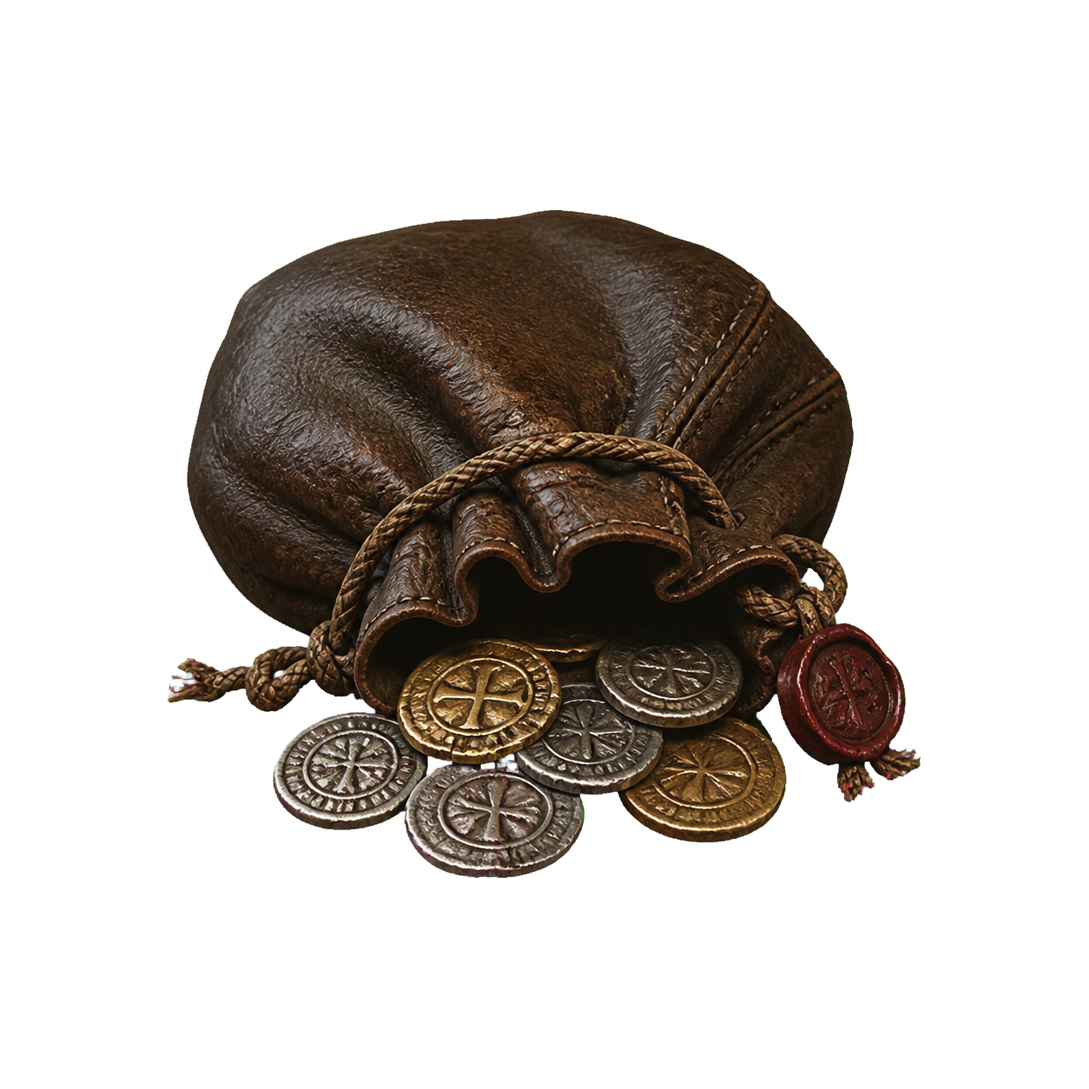
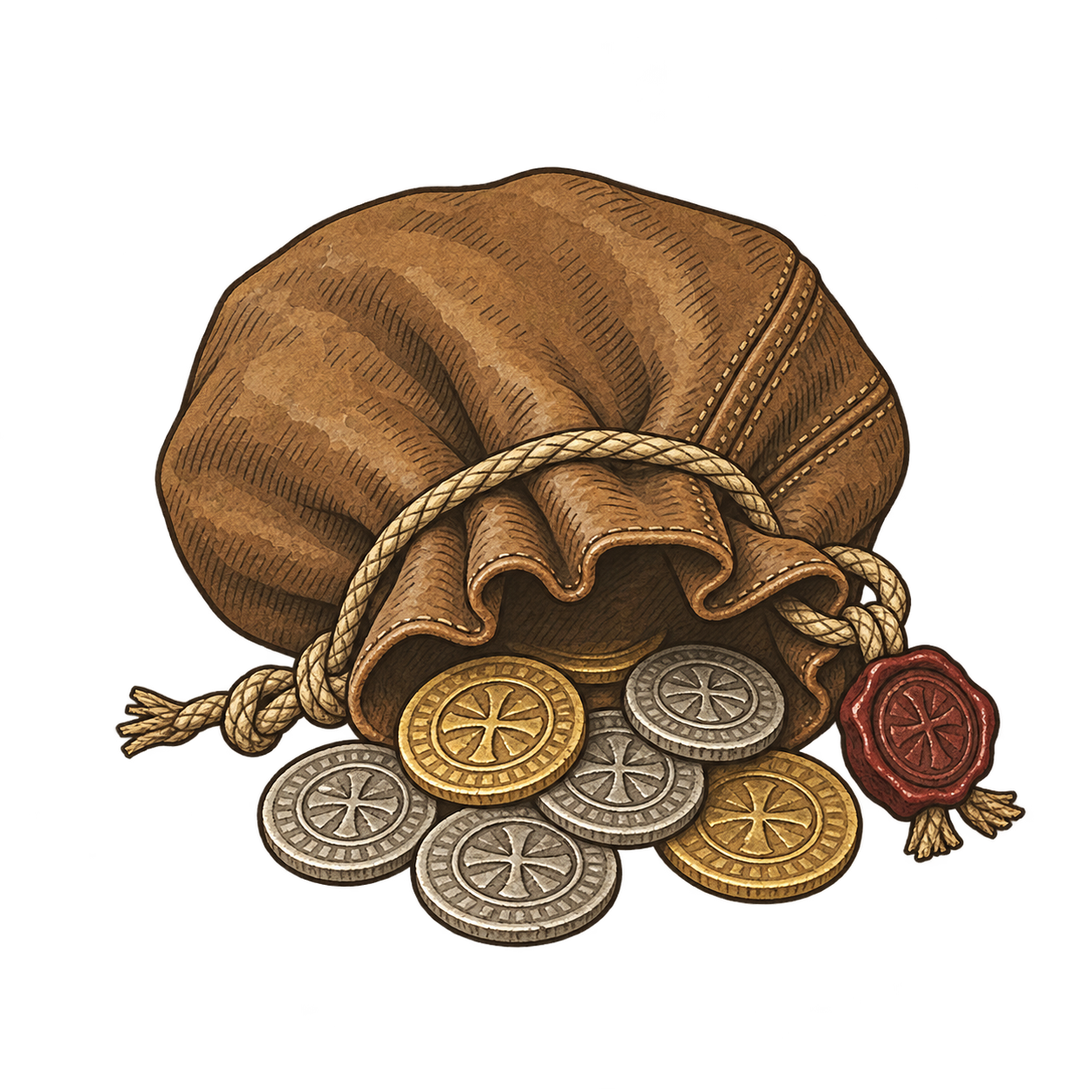
Refresh shared pickup artwork and correct return-summary city counts

diff --git a/docs/visual-qa/offline-earnings/art-review.html b/docs/visual-qa/offline-earnings/art-review.html
@@ -1,13 +1,13 @@
 <!doctype html>
 <html lang="en"><head><meta charset="utf-8"><meta name="viewport" content="width=device-width,initial-scale=1"><title>Crown Lands · Pickup art review</title><link rel="icon" href="../../../assets/icons/crownlands-favicon-32.png"><link rel="stylesheet" href="art-review.css"></head><body>
-<header><div><p class="eyebrow">CROWN LANDS · SHARED ARTWORK</p><h1>Gold &amp; troops</h1><p class="intro">The same familiar objects, illustrated to belong in your kingdom.</p></div><span class="badge">Draft · For approval</span></header>
+<header><div><p class="eyebrow">CROWN LANDS · SHARED ARTWORK</p><h1>Gold &amp; troops</h1><p class="intro">The same familiar objects, illustrated to belong in your kingdom.</p></div><span class="badge">Art approved · Integrated locally</span></header>
 <nav aria-label="Review navigation"><a href="index.html?viewport=landscape&amp;sample=lost">See in Welcome Back · mobile landscape <span aria-hidden="true">›</span></a><a href="index.html?viewport=desktop&amp;sample=standard">See in Welcome Back · desktop <span aria-hidden="true">›</span></a></nav>
 <main>
 <div class="pair">
-<section class="art-card" aria-labelledby="goldTitle"><div class="card-heading"><span>I</span><h2 id="goldTitle">Gold pickup</h2><p>Pouch · coins · wax seal</p></div><div class="comparison"><figure><figcaption>Current</figcaption><div class="art-stage"><img src="../../../assets/gold-pickup.png" alt="Current gold pickup with realistic dark leather and shiny coins"></div></figure><figure class="proposed"><figcaption>Proposed · illustrated atlas</figcaption><div class="art-stage"><img src="art/gold-pickup-atlas-v1.png" alt="Proposed gold pickup with drawn sepia lines, ochre leather, muted gold and a red seal"></div></figure></div><p class="art-description">Tawny leather, antique gold, warm gray silver, and a muted red seal. Ink outlines replace photographic shine.</p></section>
-<section class="art-card" aria-labelledby="troopTitle"><div class="card-heading"><span>II</span><h2 id="troopTitle">Troop pickup</h2><p>Helmet · banner · spears · orders</p></div><div class="comparison"><figure><figcaption>Current</figcaption><div class="art-stage"><img src="../../../assets/troop-pickup.png" alt="Current troop pickup with dark realistic metal and burgundy cloth"></div></figure><figure class="proposed"><figcaption>Proposed · illustrated atlas</figcaption><div class="art-stage"><img src="art/troop-pickup-atlas-v1.png" alt="Proposed troop pickup with warm gray iron, weathered burgundy, parchment and hand-drawn shading"></div></figure></div><p class="art-description">Warm gray iron, weathered burgundy, and parchment orders. The helmet, banner, spears, and scroll remain together.</p></section>
+<section class="art-card" aria-labelledby="goldTitle"><div class="card-heading"><span>I</span><h2 id="goldTitle">Gold pickup</h2><p>Pouch · coins · wax seal</p></div><div class="comparison"><figure><figcaption>Before</figcaption><div class="art-stage"><img src="art/gold-pickup-before.png" alt="Current gold pickup with realistic dark leather and shiny coins"></div></figure><figure class="proposed"><figcaption>Approved · illustrated atlas</figcaption><div class="art-stage"><img src="art/gold-pickup-atlas-v1.png" alt="Proposed gold pickup with drawn sepia lines, ochre leather, muted gold and a red seal"></div></figure></div><p class="art-description">Tawny leather, antique gold, warm gray silver, and a muted red seal. Ink outlines replace photographic shine.</p></section>
+<section class="art-card" aria-labelledby="troopTitle"><div class="card-heading"><span>II</span><h2 id="troopTitle">Troop pickup</h2><p>Helmet · banner · spears · orders</p></div><div class="comparison"><figure><figcaption>Before</figcaption><div class="art-stage"><img src="art/troop-pickup-before.png" alt="Current troop pickup with dark realistic metal and burgundy cloth"></div></figure><figure class="proposed"><figcaption>Approved · illustrated atlas</figcaption><div class="art-stage"><img src="art/troop-pickup-atlas-v1.png" alt="Proposed troop pickup with warm gray iron, weathered burgundy, parchment and hand-drawn shading"></div></figure></div><p class="art-description">Warm gray iron, weathered burgundy, and parchment orders. The helmet, banner, spears, and scroll remain together.</p></section>
 </div>
-<section class="context-card"><div class="context-heading"><div><p class="eyebrow">AT GAME SCALE</p><h2>Clear on parchment. At home on the map.</h2></div><p>48px · 64px · 96px</p></div><div class="contexts"><div class="parchment-preview"><span class="surface-label">PARCHMENT PANELS</span><div class="scale-row"><div><img src="art/gold-pickup-atlas-v1.png" width="48" height="48" alt="Gold at 48 pixels"><img src="art/troop-pickup-atlas-v1.png" width="48" height="48" alt="Troops at 48 pixels"></div><div><img src="art/gold-pickup-atlas-v1.png" width="64" height="64" alt="Gold at 64 pixels"><img src="art/troop-pickup-atlas-v1.png" width="64" height="64" alt="Troops at 64 pixels"></div><div><img src="art/gold-pickup-atlas-v1.png" width="96" height="96" alt="Gold at 96 pixels"><img src="art/troop-pickup-atlas-v1.png" width="96" height="96" alt="Troops at 96 pixels"></div></div></div><div class="map-preview"><span class="surface-label">MAP PICKUPS</span><div class="map-icons"><img src="art/gold-pickup-atlas-v1.png" width="96" height="96" alt="Proposed gold on the map"><img src="art/troop-pickup-atlas-v1.png" width="96" height="96" alt="Proposed troops on the map"></div></div></div></section>
+<section class="context-card"><div class="context-heading"><div><p class="eyebrow">AT GAME SCALE</p><h2>Clear on parchment. At home on the map.</h2></div><p>48px · 64px · 96px</p></div><div class="contexts"><div class="parchment-preview"><span class="surface-label">PARCHMENT PANELS</span><div class="scale-row"><div><img src="../../../assets/optimized/pickup-gold-192x192-0f5238966f7a.webp" width="48" height="48" alt="Gold at 48 pixels"><img src="../../../assets/optimized/pickup-troops-192x192-7613afbbad92.webp" width="48" height="48" alt="Troops at 48 pixels"></div><div><img src="../../../assets/optimized/pickup-gold-192x192-0f5238966f7a.webp" width="64" height="64" alt="Gold at 64 pixels"><img src="../../../assets/optimized/pickup-troops-192x192-7613afbbad92.webp" width="64" height="64" alt="Troops at 64 pixels"></div><div><img src="../../../assets/optimized/pickup-gold-192x192-0f5238966f7a.webp" width="96" height="96" alt="Gold at 96 pixels"><img src="../../../assets/optimized/pickup-troops-192x192-7613afbbad92.webp" width="96" height="96" alt="Troops at 96 pixels"></div></div></div><div class="map-preview"><span class="surface-label">MAP PICKUPS</span><div class="map-icons"><img src="../../../assets/optimized/pickup-gold-192x192-0f5238966f7a.webp" width="96" height="96" alt="Proposed gold on the map"><img src="../../../assets/optimized/pickup-troops-192x192-7613afbbad92.webp" width="96" height="96" alt="Proposed troops on the map"></div></div></div></section>
 </main>
-<footer><strong>Approval applies to both shared images.</strong><p>After approval, these versions will replace their shared artwork wherever used: map pickups, reward animations, level-up rewards, Daily Login, shop boosts, the rewards guide, and Welcome Back. The game still uses the current versions until integration and deployment.</p><p class="quiet">Built-in image generation · transparent PNG drafts · no gameplay changes</p></footer>
+<footer><strong>Both shared images approved.</strong><p>The approved pair is now wired into the local shared artwork references: map pickups, reward animations, level-up rewards, Daily Login, shop boosts, the rewards guide, and Welcome Back. The change is not deployed yet.</p><p class="quiet">Built-in image generation · transparent PNG drafts · no gameplay changes</p></footer>
 </body></html>

diff --git a/daily-rewards-guide.html b/daily-rewards-guide.html
@@ -6,6 +6,6 @@
 <section class="content-section" id="queue"><h2>Two earned rewards can wait for collection</h2><p>Missing days pauses progress. Up to two earned rewards wait for collection and carry across seasons. Collect them in order after establishing your main city. Resource amounts use your current base production when collected.</p><div class="callout">One attendance credit is available per UTC date. A full queue can defer today's credit until you collect a reward. Finishing a cycle does not grant an extra login day.</div></section>
 <section class="content-section" id="missions"><h2>Daily Missions are generated from a server snapshot</h2><p>Open Daily Rewards and choose the Quests tab to see three missions. They reset at 00:00 UTC. The server selects three distinct mission families and scales their targets and rewards from a snapshot of the kingdom's production, cities, troops, and available activities.</p><p>Those targets stay locked for the day. Gaining a city or producing more troops does not move the goal after it has been created. Progress comes from validated gameplay events, and rewards must be claimed after completion.</p><table class="data-table"><thead><tr><th>Mission behavior</th><th>Rule</th><th>Planning effect</th></tr></thead><tbody><tr><td>Daily set</td><td>Three distinct mission families</td><td>Expect variety rather than three versions of one action.</td></tr><tr><td>Scaling</td><td>Locked from the day's server snapshot</td><td>The goal will not chase later kingdom growth.</td></tr><tr><td>PvP and Stronghold attacks</td><td>Must commit at least 5% of snapshotted deployable troops</td><td>Token attacks do not count as meaningful action.</td></tr><tr><td>Camp captures</td><td>Count after server-confirmed successful capture</td><td>The PvP troop threshold does not apply to camp success.</td></tr><tr><td>Claiming</td><td>Server validates and grants once</td><td>Repeated client actions cannot duplicate a reward.</td></tr></tbody></table></section>
 <section class="content-section" id="reroll"><h2>Use the one reroll before investing in the wrong mission</h2><p>Each ruler receives one reroll for an unfinished mission per UTC day. The replacement discards the old mission's progress. It does not transform partial progress into the new goal.</p><p>Use the reroll when a mission conflicts with the day's real position: an objective is unreachable, a combat target would be wasteful, or the kingdom needs a defensive session instead. Reroll early, before spending troops or gold merely to protect progress that will disappear.</p><p>A completed mission cannot be rerolled to farm a second reward. The server locks the claim and replacement rules around the same daily state.</p></section>
-<section class="content-section" id="pickups"><h2>Active-map pickups alternate between gold and troops</h2><div class="comparison-grid"><div class="comparison-panel"><img src="/assets/optimized/pickup-gold-192x192-a1de679b797d.webp" width="82" height="82" alt="" /><h3>Gold pickup</h3><p>Credits thirty minutes of stored gold production.</p></div><div class="comparison-panel"><img src="/assets/optimized/pickup-troops-192x192-ed370610c5b6.webp" width="82" height="82" alt="" /><h3>Troop pickup</h3><p>Credits thirty minutes of stored troop production.</p></div></div><p>The first pickup appears after two minutes. After a successful collection, the next appears two minutes later and alternates between the two reward types. Pickups favor safe positions toward the center of the current map so they remain visible on larger islands. The daily limit is thirty of each type, sixty total. Cross-region collection credits the correct Main City and sends the reward animation toward its correct destination.</p><p>Pickups are a supplement to city production, not a reason to remain online without a plan. Use them while reviewing holdings, reports, and marches instead of treating collection as the primary game loop.</p></section>
+<section class="content-section" id="pickups"><h2>Active-map pickups alternate between gold and troops</h2><div class="comparison-grid"><div class="comparison-panel"><img src="/assets/optimized/pickup-gold-192x192-0f5238966f7a.webp" width="82" height="82" alt="" /><h3>Gold pickup</h3><p>Credits thirty minutes of stored gold production.</p></div><div class="comparison-panel"><img src="/assets/optimized/pickup-troops-192x192-7613afbbad92.webp" width="82" height="82" alt="" /><h3>Troop pickup</h3><p>Credits thirty minutes of stored troop production.</p></div></div><p>The first pickup appears after two minutes. After a successful collection, the next appears two minutes later and alternates between the two reward types. Pickups favor safe positions toward the center of the current map so they remain visible on larger islands. The daily limit is thirty of each type, sixty total. Cross-region collection credits the correct Main City and sends the reward animation toward its correct destination.</p><p>Pickups are a supplement to city production, not a reason to remain online without a plan. Use them while reviewing holdings, reports, and marches instead of treating collection as the primary game loop.</p></section>
 <section class="content-section" id="routine"><h2>A fifteen-minute daily routine</h2><ol><li>Confirm the UTC date and inspect the login reward queue.</li><li>Open the Quests tab before committing troops or spending gold.</li><li>Reroll an unsuitable unfinished mission immediately.</li><li>Review incoming armies and vulnerable walls before pursuing progress.</li><li>Choose actions that satisfy a mission and improve the kingdom at the same time.</li><li>Claim completed mission rewards and confirm the destination of production rewards.</li><li>Check seasonal achievements for progress that came naturally from the session.</li></ol><p>The goal is alignment. A useful mission encourages an action the realm already needs; a poor plan spends resources for a checkbox while ignoring the map.</p><div class="site-actions"><a class="site-button" href="/play/">Open Daily Rewards</a><a class="site-button secondary" href="/how-to-play.html">Review the full game loop</a><a class="site-button secondary" href="/updates.html">Read recent progression updates</a></div></section>
 </article></div></main><footer class="site-footer"><div class="site-footer-inner"><span>&copy; 2026 Crownlands. Guide by the Crownlands Development Team.</span><nav aria-label="Footer"><a href="/">Home</a><a href="/guides.html">All guides</a><a href="/updates.html">Updates</a><a href="/game-rules.html">Rules</a><a href="/privacy.html">Privacy</a></nav></div></footer><script src="/public-site.js?v=20260812-public-site" defer></script></body></html>

diff --git a/docs/visual-qa/pass-3f/index.html b/docs/visual-qa/pass-3f/index.html
@@ -130,8 +130,8 @@
     <article class="context" data-view="map">
       <h3>Map Pickups and Protected City</h3>
       <div class="context-stage map-scene">
-        <button class="harvest-bonus-node map-pickup" style="--left:28%;--top:38%"><span><img class="harvest-bonus-icon" src="../../../assets/optimized/pickup-gold-192x192-a1de679b797d.webp" alt="Gold pickup" /></span></button>
-        <button class="harvest-bonus-node harvest-bonus-troops map-pickup" style="--left:45%;--top:66%"><span><img class="harvest-bonus-icon" src="../../../assets/optimized/pickup-troops-192x192-ed370610c5b6.webp" alt="Troop pickup" /></span></button>
+        <button class="harvest-bonus-node map-pickup" style="--left:28%;--top:38%"><span><img class="harvest-bonus-icon" src="../../../assets/optimized/pickup-gold-192x192-0f5238966f7a.webp" alt="Gold pickup" /></span></button>
+        <button class="harvest-bonus-node harvest-bonus-troops map-pickup" style="--left:45%;--top:66%"><span><img class="harvest-bonus-icon" src="../../../assets/optimized/pickup-troops-192x192-7613afbbad92.webp" alt="Troop pickup" /></span></button>
         <div class="protected-city"><span class="protected-city-label">Redhaven | Protected</span><span class="city-shield-field"><img src="../../../assets/optimized/status-peace-shield-field-192x192-ca4a297c750b.webp" alt="" /></span><span class="city-castle"><img src="../../../assets/optimized/castle-city-256x256-96961dc8d50b.webp" alt="" /></span></div>
       </div>
     </article>
@@ -165,13 +165,13 @@
     ["Veil of Silence", "veil-of-silence-icon.webp", "item-veil-of-silence-160x160-ea2992af0cd1.webp"],
     ["Swift March Order", "swift-march-order-icon.webp", "item-swift-march-160x160-e857cc4d8977.webp"],
     ["Recall Horn", "recall-horn-icon.webp", "item-recall-horn-160x160-b261d10e9c8b.webp"],
-    ["Gold Pickup", "gold-pickup.png", "pickup-gold-192x192-a1de679b797d.webp"],
-    ["Troop Pickup", "troop-pickup.png", "pickup-troops-192x192-ed370610c5b6.webp"],
+    ["Gold Pickup", "gold-pickup.png", "pickup-gold-192x192-0f5238966f7a.webp"],
+    ["Troop Pickup", "troop-pickup.png", "pickup-troops-192x192-7613afbbad92.webp"],
   ];
   comparisonGrid.innerHTML = comparisons.map(([label, oldArt, newArt]) => `<article class="qa-card"><h3>${label}</h3><div class="old-new"><figure><img src="old-assets/${oldArt}" alt="Old ${label}" /><figcaption>Old</figcaption></figure><figure><img src="${root}assets/optimized/${newArt}" alt="New ${label}" /><figcaption>Pass 3F</figcaption></figure></div></article>`).join("");
   shopItems.innerHTML = items.map(([label, art, price, id]) => `<article class="shop-item" data-shop-item="${id}"><div class="shop-item-image-placeholder has-image"><img class="shop-item-image" src="${root}assets/optimized/${art}" alt="" /></div><div class="shop-item-copy"><strong>${label}</strong><span>${price}</span><small>Grounded Crownlands supply item</small></div><button class="shop-buy-btn" type="button">Buy</button></article>`).join("");
-  inventorySlots.innerHTML = [...items, ["Gold Pickup", "pickup-gold-192x192-a1de679b797d.webp", "x1", "gold"]].map(([label, art], index) => `<button class="inventory-slot filled${index === 1 ? " selected" : ""}" type="button"><span class="inventory-slot-icon has-image"><img class="inventory-slot-image" src="${root}assets/optimized/${art}" alt="" /></span><span class="inventory-slot-name">${label}</span><span class="inventory-slot-count">x${index + 1}</span></button>`).join("");
-  const daily = [items[1], items[2], items[3], items[4], items[5], items[6], ["Gold", "pickup-gold-192x192-a1de679b797d.webp"], ["Troops", "pickup-troops-192x192-ed370610c5b6.webp"], items[0], items[3]];
+  inventorySlots.innerHTML = [...items, ["Gold Pickup", "pickup-gold-192x192-0f5238966f7a.webp", "x1", "gold"]].map(([label, art], index) => `<button class="inventory-slot filled${index === 1 ? " selected" : ""}" type="button"><span class="inventory-slot-icon has-image"><img class="inventory-slot-image" src="${root}assets/optimized/${art}" alt="" /></span><span class="inventory-slot-name">${label}</span><span class="inventory-slot-count">x${index + 1}</span></button>`).join("");
+  const daily = [items[1], items[2], items[3], items[4], items[5], items[6], ["Gold", "pickup-gold-192x192-0f5238966f7a.webp"], ["Troops", "pickup-troops-192x192-7613afbbad92.webp"], items[0], items[3]];
   dailyGrid.innerHTML = daily.map(([label, art], index) => `<article class="daily-reward-card ${index < 3 ? "claimed" : index === 3 ? "available" : "locked"}"><img class="daily-reward-card-icon" src="${root}assets/optimized/${art}" alt="" /><strong class="daily-reward-card-amount">${index % 3 === 0 ? "1h" : "x1"}</strong><span class="sr-only">${label}</span></article>`).join("");
   const requested = new URLSearchParams(location.search).get("view");
   if (requested) {

diff --git a/game.js b/game.js
@@ -184,14 +184,14 @@ const REWARDED_AD_ITEMS = Object.freeze([
     label: "Gold .5h Boost",
     description: "Receive 30 minutes of Gold production.",
     rewardLabel: "gold",
-    icon: "assets/optimized/pickup-gold-192x192-a1de679b797d.webp",
+    icon: "assets/optimized/pickup-gold-192x192-0f5238966f7a.webp",
   },
   {
     id: "troops",
     label: "Troop .5h Boost",
     description: "Receive 30 minutes of Troop production.",
     rewardLabel: "troops",
-    icon: "assets/optimized/pickup-troops-192x192-ed370610c5b6.webp",
+    icon: "assets/optimized/pickup-troops-192x192-7613afbbad92.webp",
   },
 ]);
 const INNER_CASTLE_HUB_ART_SRC = "assets/optimized/inner-castle-hub-1280x960-5bb08b2e7f5c.webp";
@@ -641,8 +641,8 @@ const MAP_DETAIL_CLOSE_EXIT_ZOOM = 0.76;
 const MARCH_ENDPOINT_INTERACTION_MIN_CLEARANCE = 72;
 const MARCH_ENDPOINT_INTERACTION_SIZE_RATIO = 0.62;
 const ISLAND_MAP_PADDING = 560;
-const TROOP_PICKUP_ICON_SRC = "assets/optimized/pickup-troops-192x192-ed370610c5b6.webp";
-const GOLD_PICKUP_ICON_SRC = "assets/optimized/pickup-gold-192x192-a1de679b797d.webp";
+const TROOP_PICKUP_ICON_SRC = "assets/optimized/pickup-troops-192x192-7613afbbad92.webp";
+const GOLD_PICKUP_ICON_SRC = "assets/optimized/pickup-gold-192x192-0f5238966f7a.webp";
 const MAP_SWITCH_ARROW_ICON_SRC = "assets/optimized/hud-map-switch-arrow-192x212-a1e29fa42628.webp";
 const DEFAULT_PORTAL_VISUAL_SIZE = 92;
 const MIN_PORTAL_VISUAL_SIZE = 60;

diff --git a/docs/visual-qa/offline-earnings/preview.html b/docs/visual-qa/offline-earnings/preview.html
@@ -8,8 +8,8 @@
 <div class="welcome-body">
 <section class="earnings" aria-labelledby="earningsTitle"><div class="section-heading"><span class="folio" aria-hidden="true">I</span><h2 id="earningsTitle">While you were away</h2></div>
 <div class="reward-list">
-<article class="reward-row gold"><img src="docs/visual-qa/offline-earnings/art/gold-pickup-atlas-v1.png" alt=""><div><h3>Gold collected</h3><strong id="gold" class="amount">+125,480</strong><p>Added to your treasury</p></div></article>
-<article class="reward-row troops"><img src="docs/visual-qa/offline-earnings/art/troop-pickup-atlas-v1.png" alt=""><div><h3>Troops produced</h3><strong id="troops" class="amount">+32,620</strong><p>Remaining in cities you still own</p></div></article>
+<article class="reward-row gold"><img src="assets/optimized/pickup-gold-192x192-0f5238966f7a.webp" alt=""><div><h3>Gold collected</h3><strong id="gold" class="amount">+125,480</strong><p>Added to your treasury</p></div></article>
+<article class="reward-row troops"><img src="assets/optimized/pickup-troops-192x192-7613afbbad92.webp" alt=""><div><h3>Troops produced</h3><strong id="troops" class="amount">+32,620</strong><p>Remaining in cities you still own</p></div></article>
 </div>
 <p class="receipt-note"><span aria-hidden="true">✦</span> A record of your kingdom's production.</p>
 </section>

diff --git a/tools/validate-pass-3f-items.js b/tools/validate-pass-3f-items.js
@@ -124,6 +124,7 @@ const retiredHashes = [
   "0f7ac5409316", "dcb8dddc35ea", "48ecb3c2150b", "eaa5b941fe82", "5d50be41ce93",
   "f1cb9c8471ca", "eb20879b085e", "13064480d6c7", "866b66c49b83", "5b5b95051830",
   "5fd9cc116a40", "d7e2adb1b120", "1e09f4efdbff", "9392b160d654",
+  "a1de679b797d", "ed370610c5b6",
 ];
 for (const hash of retiredHashes) {
   assert(!shippedReferences.includes(hash), `Retired Pass 3F asset hash ${hash} is still referenced.`);

diff --git a/docs/visual-qa/offline-earnings/art-notes.md b/docs/visual-qa/offline-earnings/art-notes.md
@@ -1,6 +1,6 @@
 # Shared Gold and troop artwork · atlas v1
 
-Status: draft for user approval, refining Welcome Back on `codex/offline-earnings-draft`. The user requested the same two images with changed style and colors, then replacement everywhere those images appear once approved.
+Status: artwork approved and integrated locally on `codex/offline-earnings-draft`; merge and deployment are not authorized yet. The user requested the same two images with changed style and colors, then replacement everywhere those images appear once approved.
 
 ## Saved artwork
 
@@ -13,9 +13,9 @@ Both are 1254 × 1254 PNG files with real alpha. They retain the pouch/coins/cor
 
 Generated using the built-in image generation tool. No API/CLI fallback or external paid provider was used. The tool does not expose a selectable model version in this environment; no specific model version is asserted.
 
-The original files under `assets/` and their optimized runtime derivatives are unchanged. Only the Welcome Back draft points to the proposed versions.
+The approved PNGs now replace `assets/gold-pickup.png` and `assets/troop-pickup.png`. Only the two corresponding manifest entries and derivatives were rebuilt. The old images are retained as `art/gold-pickup-before.png` and `art/troop-pickup-before.png` for the comparison.
 
-## Shared reference audit and rollout after approval
+## Shared reference audit
 
 | Reference | Current consumers / required update |
 | --- | --- |
@@ -31,7 +31,7 @@ The original files under `assets/` and their optimized runtime derivatives are u
 
 After approval, use a single shared pair of optimized assets across runtime consumers, refresh the manifest and relevant cache/version references, and search the complete repository for stale old hashes. Preserve click areas, production values, timing, and reward logic. Check the actual map pickup and reward displays, including alpha after pickup. Existing generic vector currency/resource symbols are separate assets; this request replaces usages of these two raster images.
 
-The two generated masters are intentionally stored as versioned draft files until approval. No source image overwrite, main-branch update, PR, merge, or deployment occurred for this artwork revision.
+Runtime integration is complete for the shared image references listed above. The Welcome Back layout remains an isolated presentation draft and now previews the same optimized pair. The saved Hero Level-Up branch is outside this checkout and must reuse the current shared constants when integrated. No main-branch update, merge, or deployment occurred.
 
 ## Verification
 
@@ -39,8 +39,8 @@ The two generated masters are intentionally stored as versioned draft files unti
 - Before/after comparison loads all 12 images: original/proposed Gold and troops, three small-size pairs, and both map previews.
 - The proposed pair was inspected at 48px, 64px and 96px on parchment and 96px on the map. No opaque rectangle appears behind either image.
 - Welcome Back at 844 × 390 loads both proposed PNGs. Its earnings pane has equal client/scroll widths (434px); Collect remains 44px high and visible.
-- This revision only changes draft images, review pages, and documentation. Runtime behavior tests from the preceding Welcome Back commit remain applicable; no slow emulator/release suite is needed for art approval.
-- Before rollout, encode optimized WebP derivatives and recheck alpha and readability at actual runtime sizes. PNG masters are for review/editing, not the production delivery size.
+- Focused runtime checks passed for Pass 3F art, asset budgets, harvest pickup lifecycle, reward animations, and rewarded ads. Production build and artifact validation passed. The browser comparison uses the encoded runtime pair at 48, 64 and 96px on parchment and at 96px on the map.
+- Encoded and checked optimized WebP derivatives: Gold `pickup-gold-192x192-0f5238966f7a.webp` (11,572 bytes); troops `pickup-troops-192x192-7613afbbad92.webp` (12,780 bytes). Both are 192 × 192 RGBA with transparent corners. Production artifact bytes match the generated files exactly. PNG masters are not production delivery assets.
 
 ## Exact prompts
 

diff --git a/docs/CROWNLANDS_MASTER_DEVELOPMENT_SPECIFICATION.md b/docs/CROWNLANDS_MASTER_DEVELOPMENT_SPECIFICATION.md
@@ -1207,6 +1207,12 @@ The [Crownlands Art Bible](./CROWNLANDS_ART_BIBLE.md) is the detailed visual aut
 
 **Status:** Established direction, with the current migrated visual foundation `LIVE — ALL PUBLISHED CHANNELS` and continuing polish `IN DEVELOPMENT`.
 
+### Approved shared Gold and troop pickup artwork — September 17, 2026
+
+- Keep the existing coin pouch, coins, cord and wax seal, and the existing helmet, banner, spears and sealed orders. Restyle the pair with sepia ink outlines, painted shading, muted earthy colors and transparent backgrounds to match the illustrated maps.
+- Use the approved pair everywhere those shared raster images appear, including map pickups, reward feedback, Hero Level-Up, Daily Login, shop boosts and the rewards guide. Existing generic vector resource symbols remain separate assets.
+- Preserve pickup click areas, collection rules, reward quantities and timing. Artwork approval authorizes integration; merge and deployment require separate authorization and verification. Approved sources and reference audit: [shared pickup artwork](./visual-qa/offline-earnings/art-notes.md).
+
 ### Needs verification
 
 - Final art production pipeline, asset licensing register, source-file ownership, generation provenance, animation style guide, audio art direction, and approval criteria for new regional art.

diff --git a/docs/visual-qa/offline-earnings/README.md b/docs/visual-qa/offline-earnings/README.md
@@ -30,4 +30,4 @@ The Hero Level-Up draft remains saved separately on `codex/hero-level-up-rewards
 
 ## Shared pickup artwork revision
 
-The user requested restyled Gold and troop images and a shared rollout after approval. See [the comparison](art-review.html) and [saved assets, prompts, and rollout audit](art-notes.md). The production image references remain unchanged until approval and integration.
+The user requested restyled Gold and troop images and a shared rollout after approval. See [the comparison](art-review.html) and [saved assets, prompts, and rollout audit](art-notes.md). The artwork is approved and its shared production references are integrated locally. The Welcome Back layout remains a draft. The shared art update still requires PR gates and separate merge/deployment authorization.
